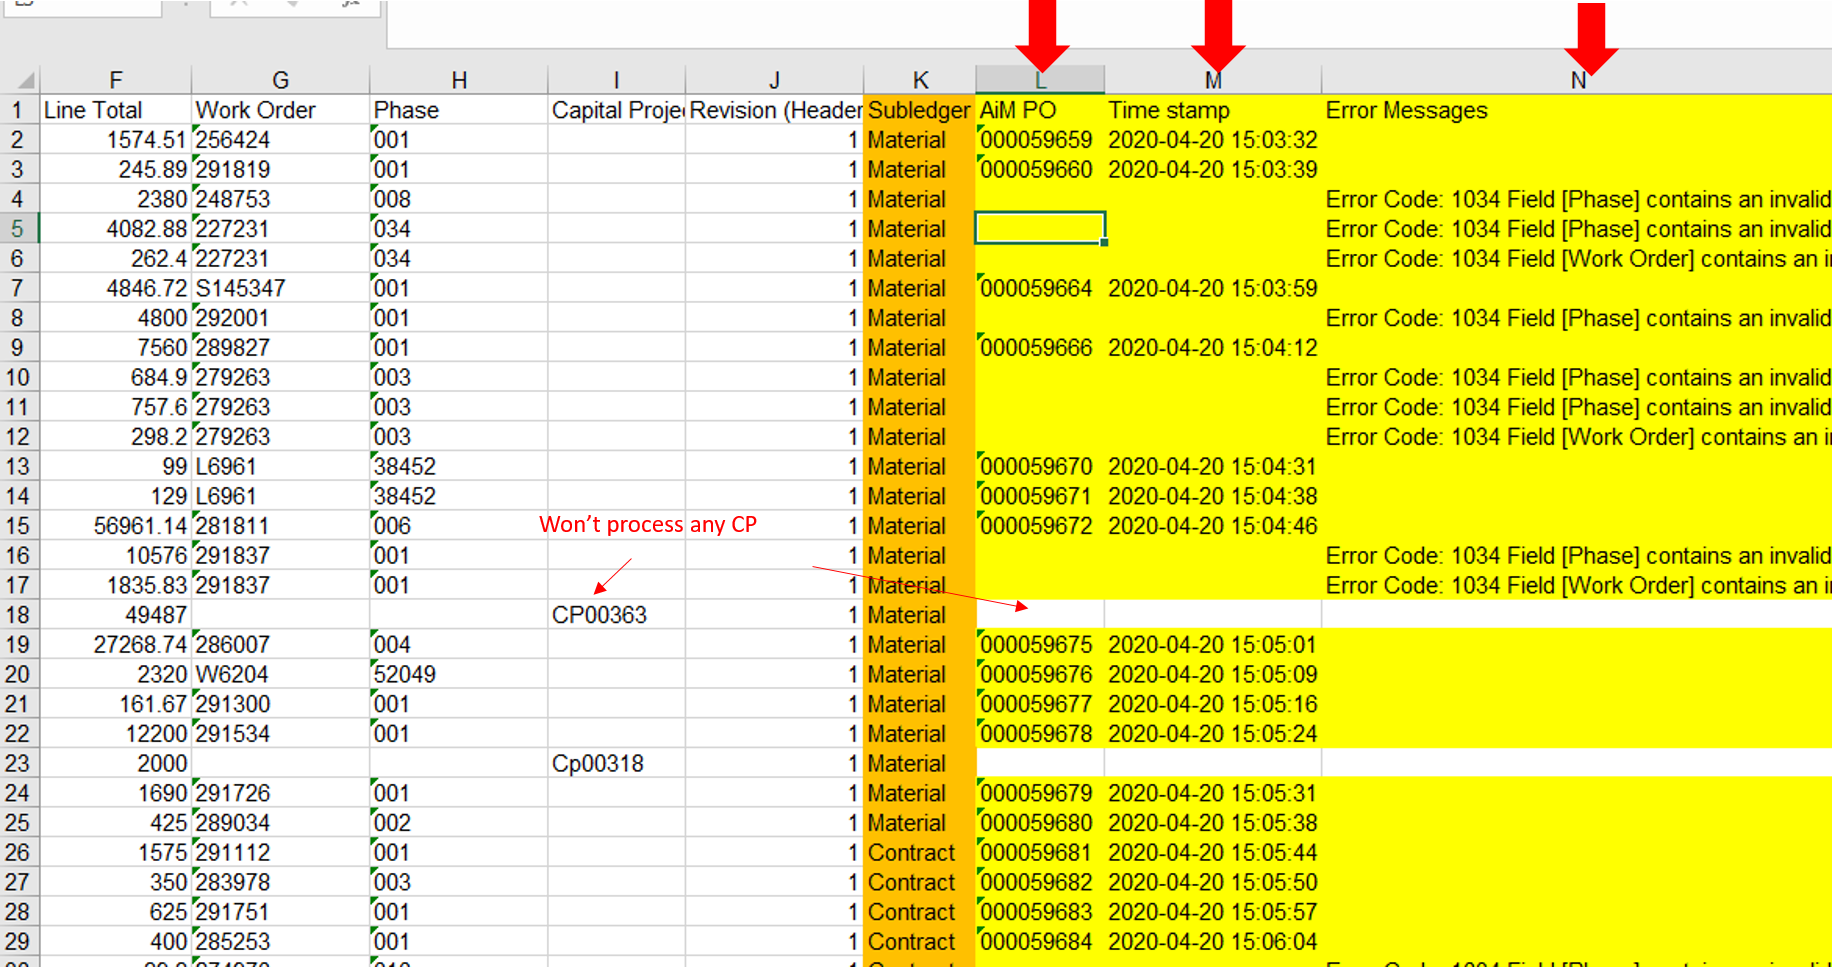
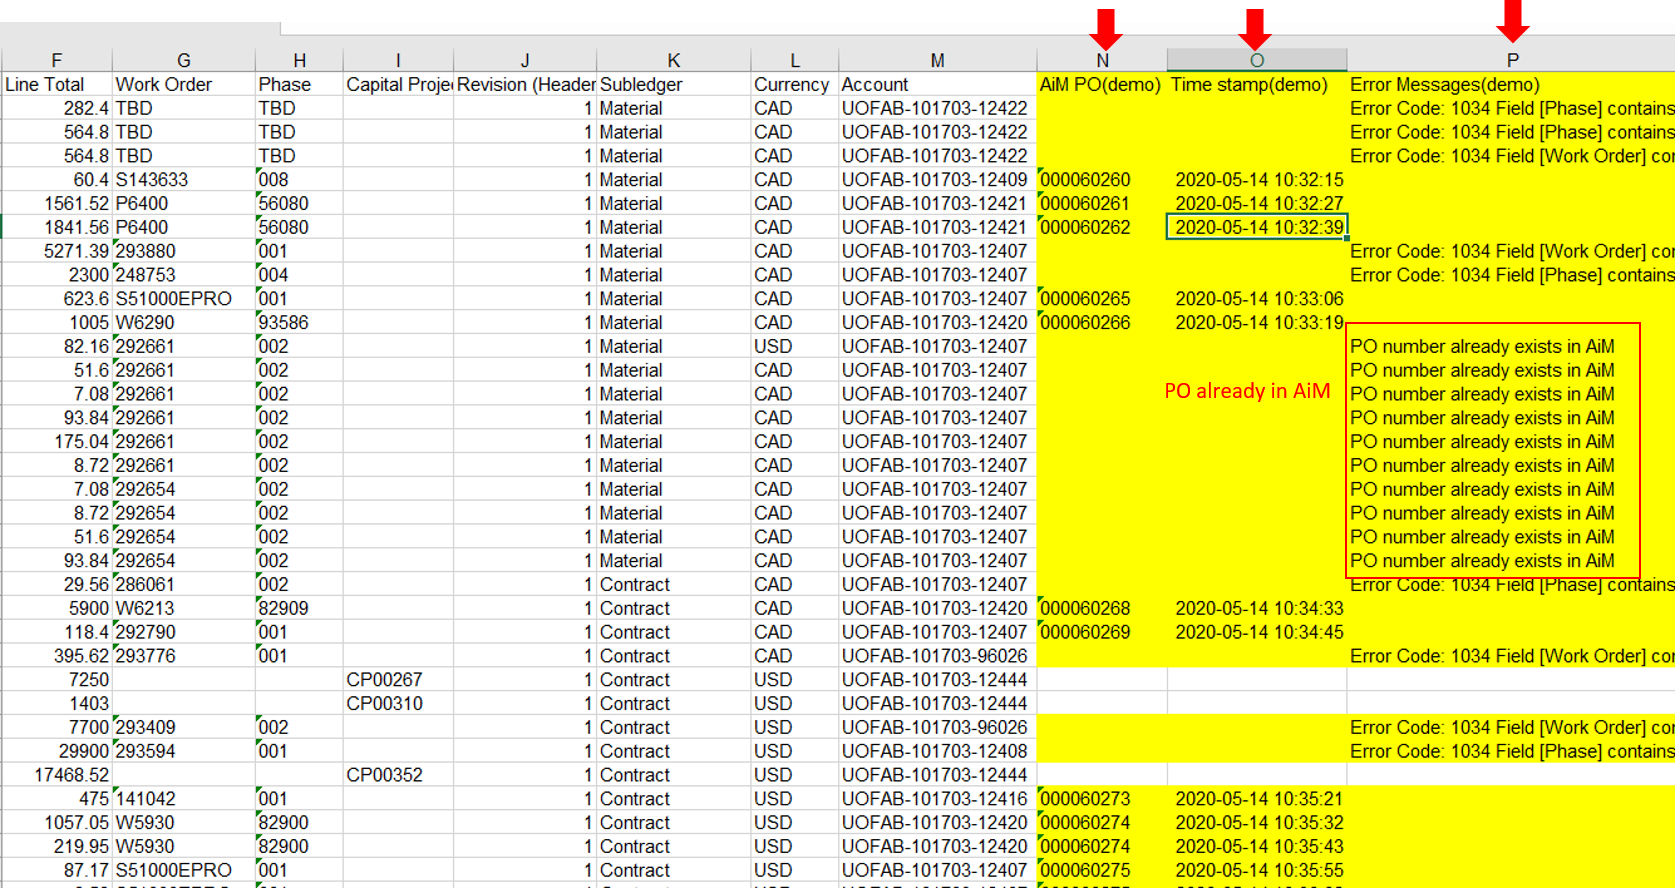
Search first, if exists then skip

diff --git a/backend/PO_in_AiM(demo).py b/backend/PO_in_AiM(demo).py
@@ -29,6 +29,7 @@ class PurchaseOrder():
         self.driver.quit()
 
     def login(self):
+        #TODO: remember to update demo to prod
         self.driver.get("https://www.aimdemo.ualberta.ca/fmax/screen/WORKDESK")
         self.driver.set_window_size(1900, 1020)
         username = input('Enter your username: ')
@@ -38,6 +39,16 @@ class PurchaseOrder():
         self.driver.find_element(By.ID, "login").click()
         self.driver.find_element(By.ID, "mainForm:menuListMain:PURCHASING").click()
 
+    def search_PO(self,po_no):
+        self.driver.find_element(By.ID, "mainForm:ae_i_poe_e_description").clear()
+        time.sleep(0.5)
+        self.driver.find_element(By.ID, "mainForm:ae_i_poe_e_description").send_keys(po_no)
+        self.driver.find_element(By.ID, "mainForm:buttonPanel:executeSearch").click()
+        try:
+            self.driver.find_element(By.ID, "mainForm:browse:0:ae_i_poe_e_po_code").click()
+            return True
+        except:
+            return False
     def log_po(self,po_no,supplier_no,person,item,line_total,WO,phase,material,currency,first_PO=True):
         try:
             if pd.isna(WO): WO=""
@@ -46,9 +57,17 @@ class PurchaseOrder():
             line_item = WO + " - " + phase +"\n"+ item
             full_name = person.split(" ")
             if first_PO:
-                self.driver.find_element(By.ID, "mainForm:menuListMain:new_PO_VIEW").click()
+                self.driver.find_element(By.ID, "mainForm:menuListMain:search_PO_VIEW").click()
+                if self.search_PO(po_no):
+                    return None,"PO number already exists in AiM"
+                else:
+                    self.driver.find_element(By.ID, "mainForm:buttonPanel:new").click()
             else:
-                self.driver.find_element(By.ID, "mainForm:buttonPanel:new").click()
+                self.driver.find_element(By.ID, "mainForm:buttonPanel:search").click()
+                if self.search_PO(po_no):
+                    return None, "PO number already exists in AiM"
+                else:
+                    self.driver.find_element(By.ID, "mainForm:buttonPanel:new").click()
             """PO main page"""
             WebDriverWait(self.driver, 10).until(EC.visibility_of_element_located((By.ID, 'mainForm:PO_EDIT_content:ae_i_poe_e_description')))
             self.driver.find_element(By.ID, "mainForm:PO_EDIT_content:ae_i_poe_e_description").send_keys(item)
@@ -187,6 +206,7 @@ class PurchaseOrder():
 def write_to_log_title(file_location,col_num):
     wb = openpyxl.load_workbook(file_location)
     ws = wb.worksheets[0]
+    # TODO: remember to update demo to prod
     ws.cell(row=1, column=col_num+1).value = "AiM PO(demo)"  # column N
     ws.cell(row=1, column=col_num+1).fill = PatternFill(fgColor=YELLOW, fill_type="solid")
     ws.cell(row=1, column=col_num+2).value = "Time stamp(demo)"  # column O
@@ -214,8 +234,7 @@ def write_to_log(file_location,row,aim_po,error,col_num):
 
 
 if __name__ == '__main__':
-    # file_loc = glob.glob('V:\Purchasing Astro Boy\commitment files\Input\*.xlsx')[0]  # assuming only 1 excel file in this folder
-    file_loc = glob.glob('..\excel file\*.xlsx')[0]
+    file_loc = glob.glob('V:\Purchasing Astro Boy\commitment files\Input\*.xlsx')[0]  # assuming only 1 excel file in this folder
 
 
     new_po = PurchaseOrder()

diff --git a/backend/README.md b/backend/README.md
@@ -22,7 +22,7 @@
 
 ![excel edit](images/excel_edit.png)
 
-2. Always check the downloads.xlsx after the program finishes. The program should log the PO code in AiM. Column L, M and N are **auto generated** by this RPA program. Please manually check those error messages.
+2. Always check the downloads.xlsx after the program finishes. The program should log the PO code in AiM. Column N, O and P are **auto generated** by this RPA program. Please manually check those error messages.
 
 ![excel output](images/excel_output.png)
 
